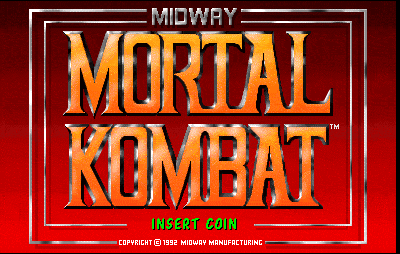
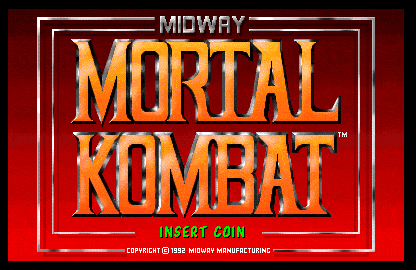
Add second screen

diff --git a/src/game_screen.py b/src/game_screen.py
@@ -1,21 +1,39 @@
 from abc import ABC, abstractmethod
 from os import path
+from typing import Tuple
 
 import pygame.sprite
 
 from src.assets import load_image
 from src.constants import (
     BLINK_SPEED,
+    CHARACTER_SELECTION_BACKGROUND_TOP_LEFT_COORD,
+    CHARACTER_SELECTION_FOLDER_PATH,
     MAIN_MENU_BACKGROUND_TOP_LEFT_COORD,
     MAIN_MENU_BLINK_TOP_LEFT_COORD,
     MAIN_MENU_FOLDER_PATH,
 )
 from src.display import Display
-from src.interactions import Interaction
+from src.interactions import Action, Interaction
 from src.interfaces import GameObject
 
 
 class GameScreen(GameObject, ABC):
+    def __init__(
+        self, background_file_path: str, top_left_coord: Tuple[int, int]
+    ) -> None:
+        self._background_sprite = pygame.sprite.Sprite()
+        self._background_sprite.image = load_image(
+            file_path=background_file_path,
+            has_transparency=False,
+        )
+        self._background_sprite.rect = self._background_sprite.image.get_rect(
+            topleft=top_left_coord
+        )
+
+    def draw(self, display: Display) -> None:
+        display.draw(self._background_sprite)
+
     @abstractmethod
     def next_game_screen(self) -> "GameScreen":
         pass
@@ -23,13 +41,9 @@ class GameScreen(GameObject, ABC):
 
 class MainMenuScreen(GameScreen):
     def __init__(self) -> None:
-        self._background_sprite = pygame.sprite.Sprite()
-        self._background_sprite.image = load_image(
-            file_path=path.join(MAIN_MENU_FOLDER_PATH, "background.png"),
-            has_transparency=False,
-        )
-        self._background_sprite.rect = self._background_sprite.image.get_rect(
-            topleft=MAIN_MENU_BACKGROUND_TOP_LEFT_COORD
+        super().__init__(
+            background_file_path=path.join(MAIN_MENU_FOLDER_PATH, "background.png"),
+            top_left_coord=MAIN_MENU_BACKGROUND_TOP_LEFT_COORD,
         )
 
         self._blink_sprite = pygame.sprite.Sprite()
@@ -44,8 +58,11 @@ class MainMenuScreen(GameScreen):
         self._blink_direction = -1
         self._blink_percentage = 1.0
 
+        self._leave_screen = False
+
     def handle_interaction(self, interaction: Interaction) -> None:
-        pass
+        if interaction.action == Action.MENU_ACCEPT and interaction.just_pressed:
+            self._leave_screen = True
 
     def update(self, delta_ms: float) -> None:
         self._blink_percentage += BLINK_SPEED * self._blink_direction * delta_ms
@@ -62,14 +79,25 @@ class MainMenuScreen(GameScreen):
         )
 
     def draw(self, display: Display) -> None:
-        display.draw(self._background_sprite)
+        super().draw(display)
         display.draw(self._blink_sprite)
 
     def next_game_screen(self) -> GameScreen:
+        if self._leave_screen:
+            return CharacterSelectionScreen()
+
         return self
 
 
 class CharacterSelectionScreen(GameScreen):
+    def __init__(self) -> None:
+        super().__init__(
+            background_file_path=path.join(
+                CHARACTER_SELECTION_FOLDER_PATH, "background.png"
+            ),
+            top_left_coord=CHARACTER_SELECTION_BACKGROUND_TOP_LEFT_COORD,
+        )
+
     def handle_interaction(self, interaction: Interaction) -> None:
         pass
 
@@ -77,7 +105,8 @@ class CharacterSelectionScreen(GameScreen):
         pass
 
     def draw(self, display: Display) -> None:
-        pass
+        super().draw(display)
+        display.draw(self._background_sprite)
 
     def next_game_screen(self) -> GameScreen:
         return self

diff --git a/src/constants.py b/src/constants.py
@@ -7,27 +7,33 @@ FPS: Final[int] = 60
 
 # Display constants
 SUPPORTED_RESOLUTIONS: Final[List[Tuple[int, int]]] = [
-    (400, 254),
-    (800, 508),
-    (1600, 1016),
+    (416, 270),
+    (832, 540),
+    (1664, 1080),
 ]
 
 INITIAL_DISPLAY_SIZE_INDEX: Final[int] = 1
 DISPLAY_BACKGROUND_COLOR: Final[Tuple[int, int, int]] = (0, 0, 0)
 
-INTERNAL_SCREEN_SIZE: Final[Tuple[int, int]] = (400, 254)
+INTERNAL_SCREEN_SIZE: Final[Tuple[int, int]] = SUPPORTED_RESOLUTIONS[0]
 
 SDL_VIDEO_CENTERED_ENV_VAR: Final[str] = "SDL_VIDEO_CENTERED"
 SDL_VIDEO_CENTERED_TRUE: Final[str] = "1"
 
 # Main Menu constants
 MAIN_MENU_BACKGROUND_TOP_LEFT_COORD: Final[Tuple[int, int]] = (0, 0)
-MAIN_MENU_BLINK_TOP_LEFT_COORD: Final[Tuple[int, int]] = (151, 217)
+MAIN_MENU_BLINK_TOP_LEFT_COORD: Final[Tuple[int, int]] = (159, 225)
 
 BLINK_SPEED: Final[int] = 3
+
+# Character Selection constants
+CHARACTER_SELECTION_BACKGROUND_TOP_LEFT_COORD: Final[Tuple[int, int]] = (0, 0)
 
 # Content constants
 ASSETS_FOLDER_PATH: Final[str] = path.abspath(
     path.join(path.dirname(__file__), "..", "assets")
 )
 MAIN_MENU_FOLDER_PATH: Final[str] = path.join(ASSETS_FOLDER_PATH, "main_menu")
+CHARACTER_SELECTION_FOLDER_PATH: Final[str] = path.join(
+    ASSETS_FOLDER_PATH, "character_selection"
+)

diff --git a/src/interactions.py b/src/interactions.py
@@ -10,6 +10,7 @@ class Action(Enum):
     QUIT = 0
     INCREASE_DISPLAY_SIZE = 1
     DECREASE_DISPLAY_SIZE = 2
+    MENU_ACCEPT = 3
 
 
 @dataclass(frozen=True)
@@ -30,6 +31,8 @@ KEY_TO_ACTION_MAPPING: Final[Dict[int, Action]] = {
     pygame.K_KP_PLUS: Action.INCREASE_DISPLAY_SIZE,
     pygame.K_MINUS: Action.DECREASE_DISPLAY_SIZE,
     pygame.K_KP_MINUS: Action.DECREASE_DISPLAY_SIZE,
+    pygame.K_RETURN: Action.MENU_ACCEPT,
+    pygame.K_KP_ENTER: Action.MENU_ACCEPT,
 }
 
 
